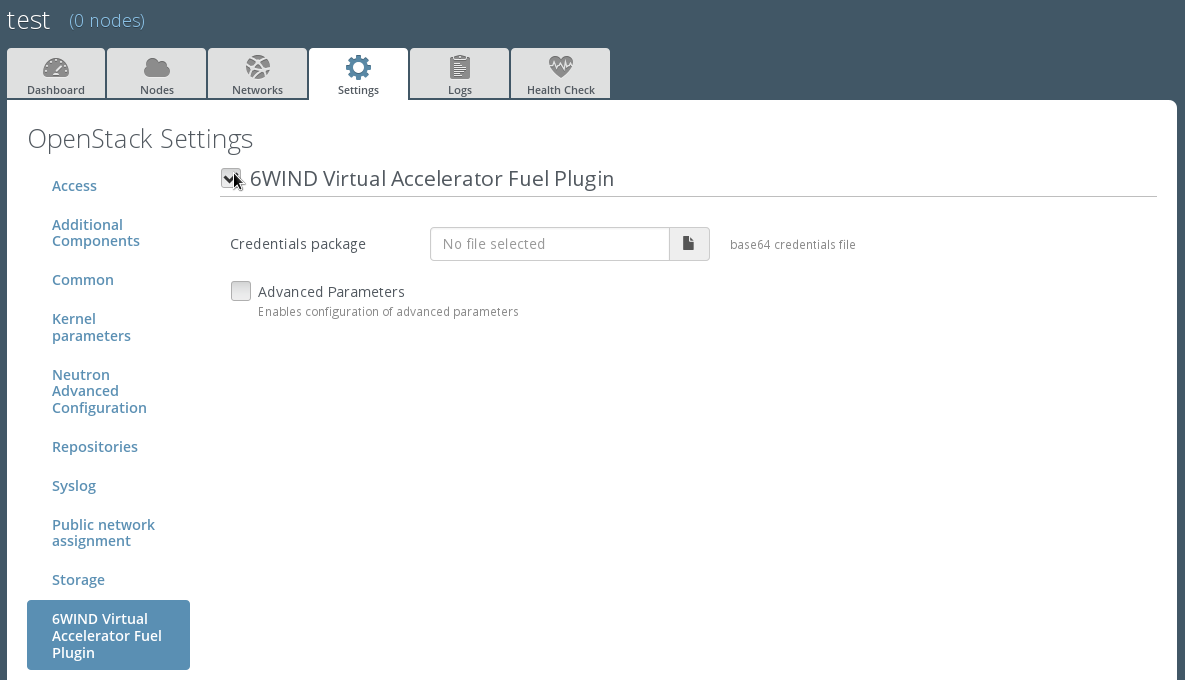
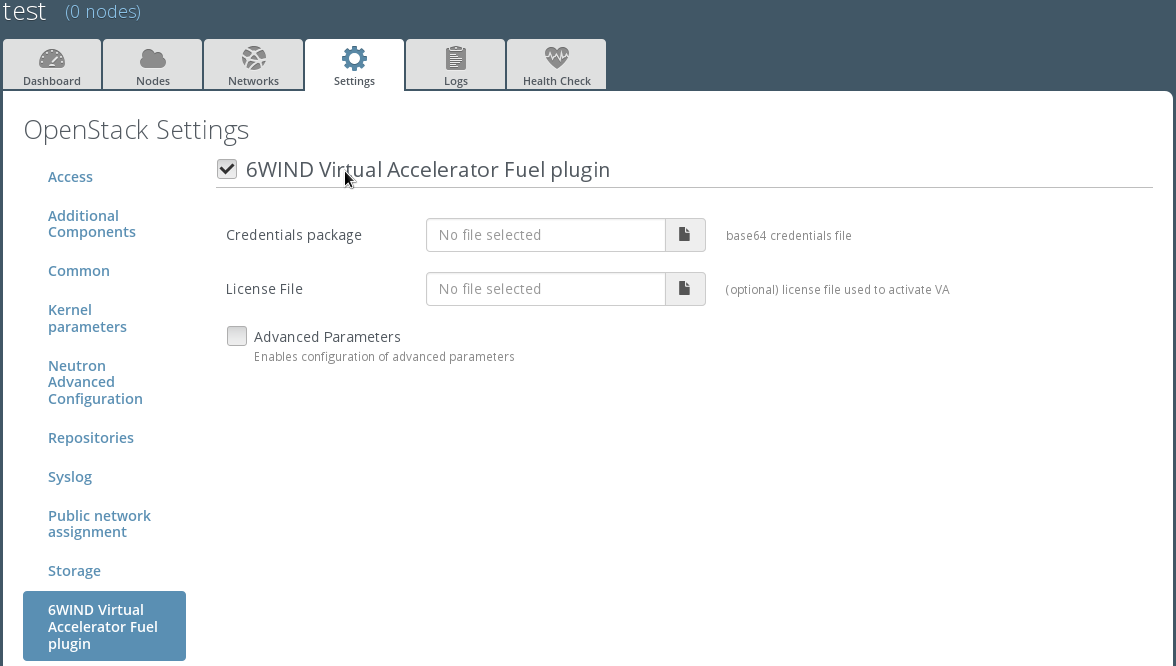
6wind-virtual-accelerator-plugin: rework parameters displaying
With the 6WIND Virtual Accelerator 1.3.2 some advanced parameters have been
dismissed and the default value of others has changed.
This patch updates both these parameters in the Web UI and documentation.

Moreover the "License File" upload section has been moved to be always visible.

diff --git a/doc/source/installation.rst b/doc/source/installation.rst
@@ -106,9 +106,10 @@ Configuring 6WIND Virtual Accelerator Plugin
 
     *   Provide base64 credentials package you received from 6WIND support team
 
-    *   Refer to next chapter for detailed field description and configuration.
-        In particular if you have a **license file** you should upload it at this time
-        in the Advanced Paramaters menu.
+    *   Provide the license file to be used for 6WIND Virtual Accelerator
+        activation
+
+    *   Refer to next chapter for the description of Advanced Paramaters fields.
 
 
 #.  Add nodes and assign them the following roles:
@@ -116,7 +117,7 @@ Configuring 6WIND Virtual Accelerator Plugin
     *   At least 1 Controller
 
     *   At least one node with both Compute and 6WIND Virtual Accelerator roles.
-        Make sure that the chosen node has **at least 2 cpus and 4 GB of RAM**
+        Make sure that the chosen node has **at least 2 cpus and 6 GB of RAM**
 
     .. image:: images/node-roles.png
        :width: 100%
